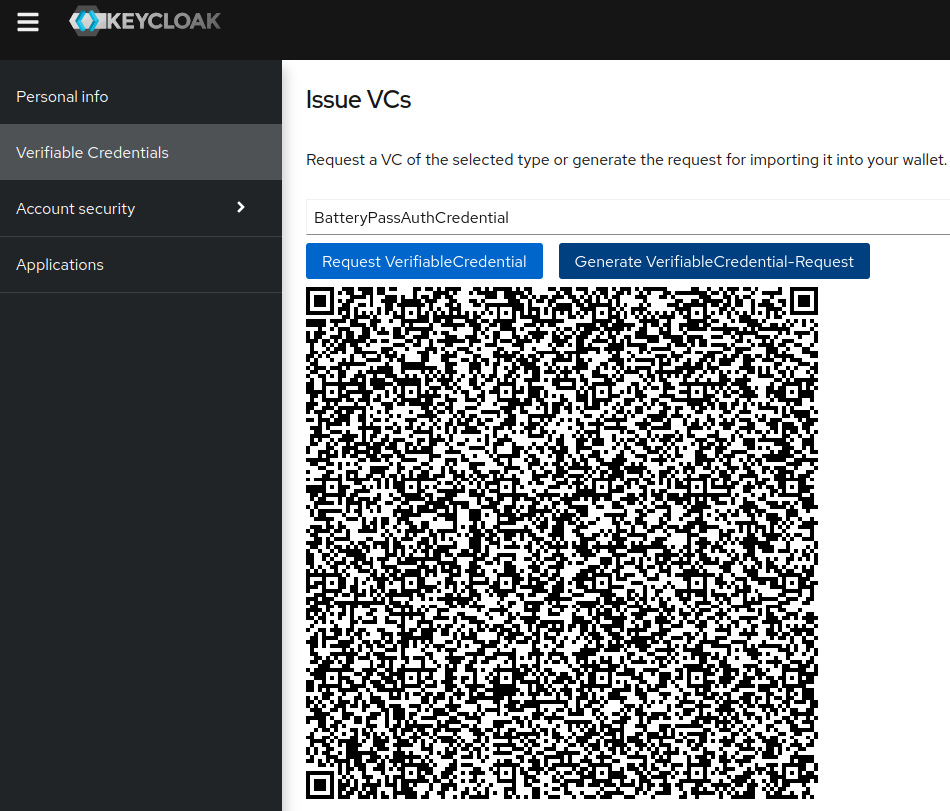
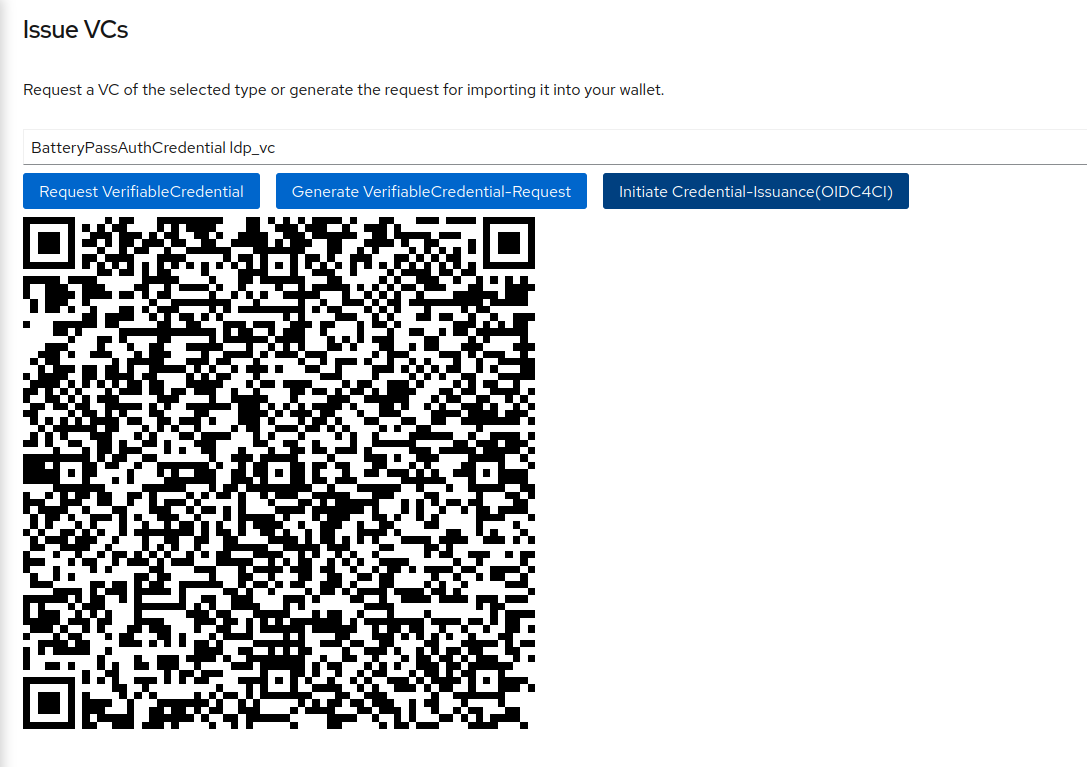
update docu

diff --git a/docs/VC.md b/docs/VC.md
@@ -26,11 +26,14 @@ Get a VerifiableCredential for users in TWO:
 ![kc-login](kc-acc-login.png)
 
 - go to the verifiable credentials tab
-- choose "BatteryPassAuthCredential" and "Generate VerifiableCredential Request"
+- choose "BatteryPassAuthCredential ldp_vc" and "Initiate Credential-Issuance(OIDC4CI)"
+> :bulb: The "Request VerfiableCredential" and "Generate VerifiableCredential-Request" buttons provide proprietary and unsecure access to credentials,
+> that was used before [OIDC4CI](https://openid.net/specs/openid-4-verifiable-credential-issuance-1_0.html) was specified. They will be removed in one of 
+> the next versions.
 
 ![show-vc](issuer-vc.png)
 
-- use a wallet like ```wallet.fiware.dev``` and scan the credential
+- use a wallet like ```demo-wallet.fiware.dev``` and scan the credential
 
 The issued credential will look similar to the following one:
 
@@ -84,18 +87,22 @@ The issued credential will look similar to the following one:
 
 The verifier is responsible for verifying the actual credential. This includes checking the signature and validity of the credential, checking the schema and the inclusion of the issuer in the dataspaces' trusted-list. 
 Once verification is done, the Verifier provides a JWT to the client, wich can be used to access downstream services. The JWT includes the credential in its payload, so that the information can further be used(f.e. in order to make authorization decisions). Downstream services only have to check the validity of the JWT, instead of the full credential.
-The deployed [Verifier](https://github.com/FIWARE/VCVerifier) comes with a demonstrational frontend, that allows logging-in with the [SIOP-2 Flow](https://openid.net/specs/openid-connect-self-issued-v2-1_0.html). It is not intended for productive usage, but for demonstrational purposes. To access the secured APIs, go to the [Verifier's Login-Page](https://verifier-one.batterypass.fiware.dev/) and initiate the login-process:
-1. Go to Login-Page
+In order to provide a frontend to be used for demonstration, a [demo-portal](https://github.com/i4Trust/pdc-portal) is deployed. It is integrated with the login-page provided by the [Verifier](https://github.com/FIWARE/VCVerifier). When choosing "Login with VC", popup presenting the QR to initiate the [SIOP-2 Flow](https://openid.net/specs/openid-connect-self-issued-v2-1_0.html) shows up and will fullfill the authentication-flow.
+To access the secured APIs, go to the [Portal's Index-Page](https://portal-one.batterypass.fiware.dev/) and choose "Login with VC":
+1. Go to Index-Page
 
-![login-page](login1.png)
+![index-page](portal_start.png)
 
-2. Scan the QR with your wallet:
-![scan-qr](login-qr.png) 
+2. Scan the QR from the popup with your wallet:
+![scan-qr](login_qr.png) 
 
-3. Accept the Login-Request in your wallet, then get forwarded to the success-page:
-![success](rec-cred.png)
+3. Accept the Request and send the credential from the wallet:
+![send](send_cred.png)
 
-4. You can now tryout the received JWT to request the service. Depending on the issuer, various requests are possible. (ONE and TWO - request entities of type BATTERY, THREE request the SoC-attribute of batteries)
+4. The popup will close and you get forwarded to the portal:
+![success](portal.png)
+
+5. You can now tryout the received JWT to request the service. Depending on the issuer and role, various requests are possible. (ONE and TWO - request entities of type BATTERY, THREE request the SoC-attribute of batteries)
 ![try-out](try-out.png)
 
 An example JWT will look like:
